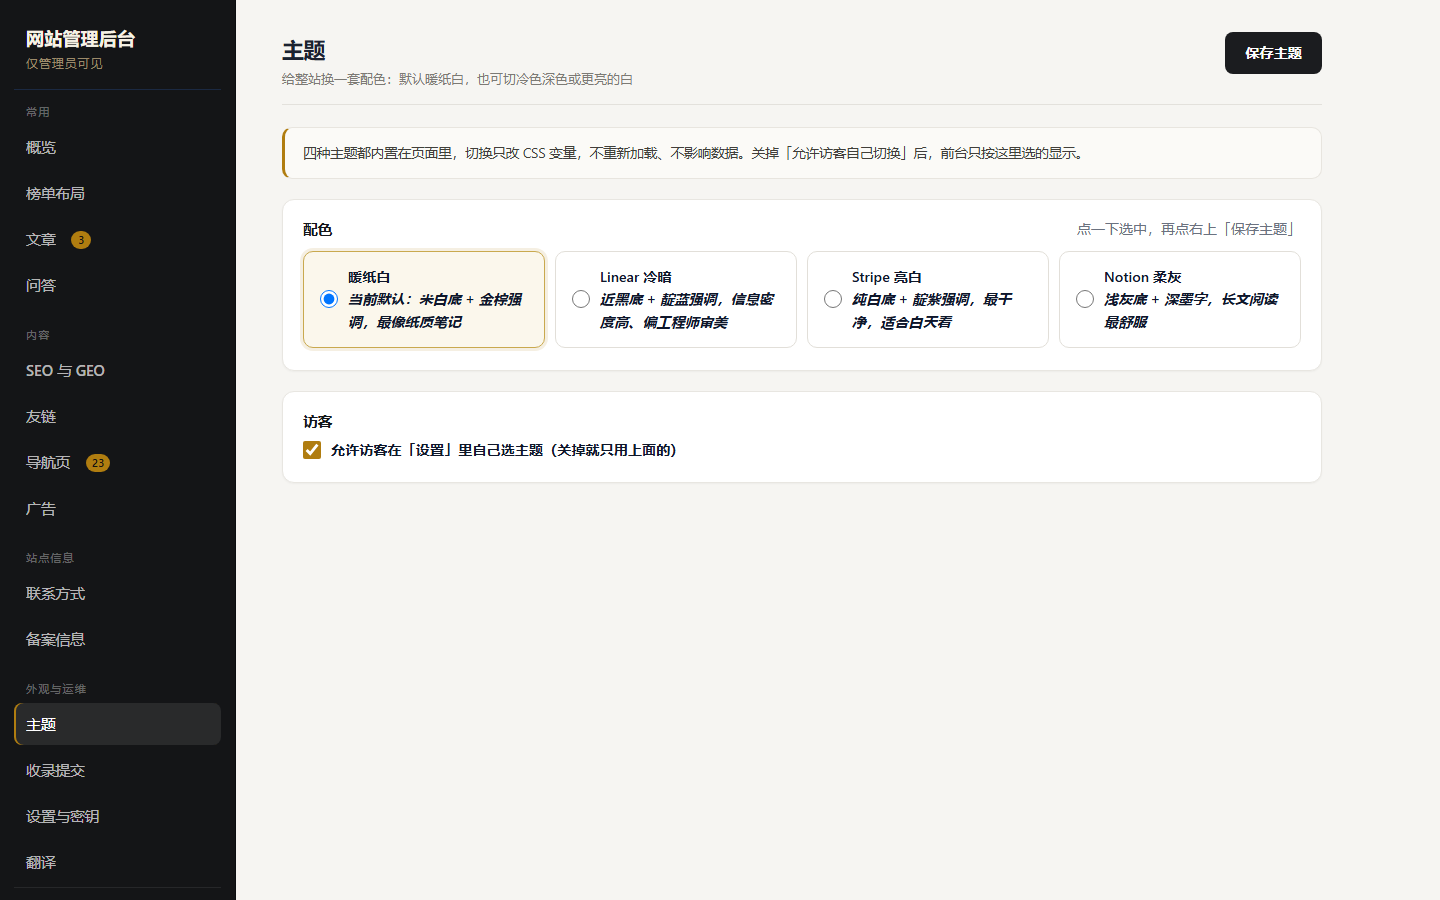
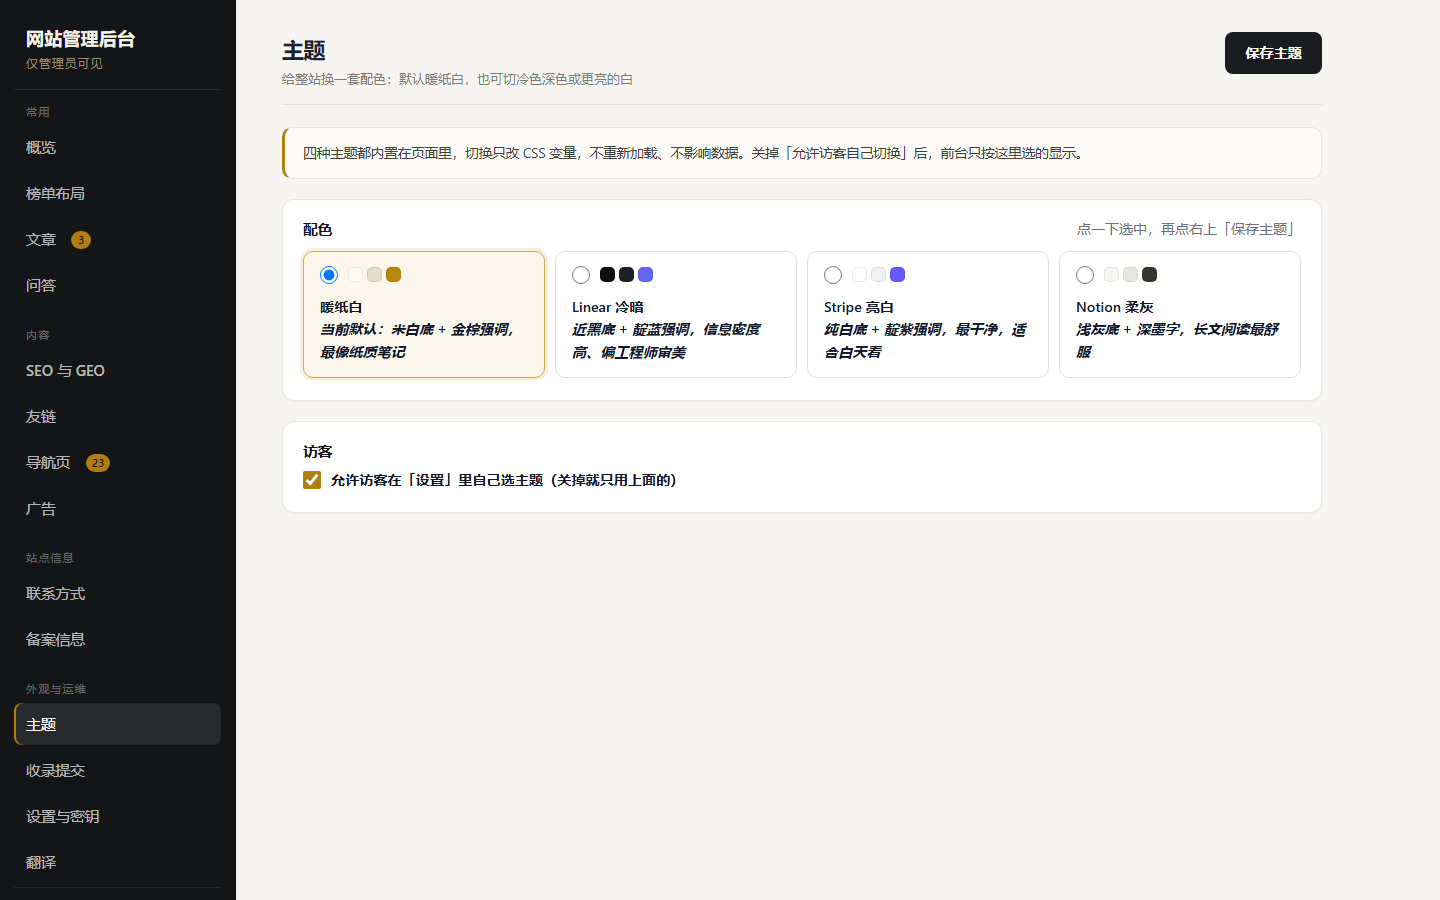
feat: 主题卡片加配色示意，单选卡布局放宽；v85

diff --git a/worker.js b/worker.js
@@ -1431,7 +1431,7 @@ async function injectFaqLd(env, html) {
 
 // 静态资源版本：HTML 里的 /js/*.js 都会被加上 ?v=<这里>，于是能给浏览器一年 immutable；
 // 改了前端就把它 +1（不然用户浏览器会抱着一周的旧 bundle，界面上去点了没反应）
-const ASSET_V = 'v84';
+const ASSET_V = 'v85';
 
 function emptyNav() {
   return { updatedAt: '', groups: [] };
@@ -3119,12 +3119,14 @@ th{color:var(--muted);font-weight:600;font-size:13px}
     #navAdmin td input{font-size:13px;padding:7px 9px}
     #navAdmin table{margin-top:6px}
 /* ---- 单选卡片（布局设置） ---- */
-.choice-grid{display:grid;grid-template-columns:repeat(auto-fit,minmax(158px,1fr));gap:10px;margin:10px 0 4px}
-.choice{display:flex;align-items:center;gap:10px;border:1px solid var(--line);border-radius:12px;padding:12px 14px;margin:0;cursor:pointer;background:#fff;font-weight:600;color:var(--text)}
+.choice-grid{display:grid;grid-template-columns:repeat(auto-fit,minmax(224px,1fr));gap:10px;margin:10px 0 4px}
+.choice{display:flex;flex-wrap:wrap;align-items:center;gap:10px;border:1px solid var(--line);border-radius:12px;padding:12px 14px;margin:0;cursor:pointer;background:#fff;font-weight:600;color:var(--text)}
 .choice:hover{border-color:#94a3b8}
 .choice input{width:18px;height:18px;margin:0;flex:none}
 .choice:has(input:checked){border-color:var(--brand);background:#eff6ff;box-shadow:0 0 0 1px var(--brand) inset}
-.choice-t{display:flex;flex-direction:column;font-size:14px}
+.choice .sw{display:inline-flex;gap:4px;margin-right:10px;vertical-align:middle;flex:none}
+.choice .sw i{width:15px;height:15px;border-radius:5px;display:block;border:1px solid rgba(0,0,0,.08)}
+.choice-t{display:flex;flex-direction:column;font-size:14px;flex:1 1 100%;margin-top:2px}
 .choice-t b{font-weight:400;font-size:12px;color:var(--muted);margin-top:2px}
 /* ---- 状态清单 / 键值 ---- */
 .status-list{display:grid;gap:8px;margin-top:8px}
@@ -3911,10 +3913,10 @@ tr:hover td{background:#fcfbf8}
       <div class="card">
         <div class="card-head"><b>配色</b><span class="msg">点一下选中，再点右上「保存主题」</span></div>
         <div class="choice-grid">
-          <label class="choice"><input type="radio" name="theme-name" value="paper" checked><span class="choice-t">暖纸白<em>当前默认：米白底 + 金棕强调，最像纸质笔记</em></span></label>
-          <label class="choice"><input type="radio" name="theme-name" value="ink"><span class="choice-t">Linear 冷暗<em>近黑底 + 靛蓝强调，信息密度高、偏工程师审美</em></span></label>
-          <label class="choice"><input type="radio" name="theme-name" value="stripe"><span class="choice-t">Stripe 亮白<em>纯白底 + 靛紫强调，最干净，适合白天看</em></span></label>
-          <label class="choice"><input type="radio" name="theme-name" value="notion"><span class="choice-t">Notion 柔灰<em>浅灰底 + 深墨字，长文阅读最舒服</em></span></label>
+          <label class="choice"><input type="radio" name="theme-name" value="paper" checked><span class="sw"><i style="background:#fffbf3"></i><i style="background:#e6dcc4"></i><i style="background:#b8860b"></i></span><span class="choice-t">暖纸白<em>当前默认：米白底 + 金棕强调，最像纸质笔记</em></span></label>
+          <label class="choice"><input type="radio" name="theme-name" value="ink"><span class="sw"><i style="background:#0b0d11"></i><i style="background:#1b1f27"></i><i style="background:#6366f1"></i></span><span class="choice-t">Linear 冷暗<em>近黑底 + 靛蓝强调，信息密度高、偏工程师审美</em></span></label>
+          <label class="choice"><input type="radio" name="theme-name" value="stripe"><span class="sw"><i style="background:#ffffff"></i><i style="background:#f1f2f6"></i><i style="background:#635bff"></i></span><span class="choice-t">Stripe 亮白<em>纯白底 + 靛紫强调，最干净，适合白天看</em></span></label>
+          <label class="choice"><input type="radio" name="theme-name" value="notion"><span class="sw"><i style="background:#f7f6f3"></i><i style="background:#e8e6e1"></i><i style="background:#37352f"></i></span><span class="choice-t">Notion 柔灰<em>浅灰底 + 深墨字，长文阅读最舒服</em></span></label>
         </div>
       </div>
       <div class="card">

diff --git a/sw.js b/sw.js
@@ -1,5 +1,5 @@
 /* Service Worker：缓存页面外壳（HTML/JS/图标），让离线也能打开；GitHub API 不缓存，由页面自己的 localStorage 管理 */
-const CACHE = 'ghrank-shell-v84';
+const CACHE = 'ghrank-shell-v85';
 const SHELL = ['./', 'index.html', 'js/bundle.js', 'js/md.js', 'manifest.json', 'icon.svg'];
 // 只预缓存 meta（约 2KB）。榜单数据按 range 分文件、由页面按需加载，不再在安装时白下几�?KB
 const DATA = 'data/repos-meta.js';

diff --git a/docs/优化建议.md b/docs/优化建议.md
@@ -865,3 +865,23 @@ node scripts/check-worker.mjs      # 本地模拟 Workers 运行时，30+ 项断
 ### 坑
 - `ADMIN_PAGE` 是模板字面量：**正则里不能写 `\/`**（会被吃成 `//` 变注释、整段脚本 SyntaxError）。去掉协议与结尾斜杠改用 `indexOf/slice` + `while (url.slice(-1) === '/')`，避免任何反斜杠。
 - 版本号不要手改成默认值：新增 `scripts/bump-version.mjs`，必须显式传 `v84`，否则直接报错退出（之前 `tmp-bump.mjs` 默认值把版本写回旧号，多花了一轮）。
+
+## 55. 第 30 轮：主题卡片加配色示意（swatch）
+
+### 做了什么
+- 后台「主题」四张单选卡各加一行三色示意图（背景 / 卡片 / 强调色），一眼能看出这套主题长什么样，不用挨个点了才知道。
+  * 暖纸白 `#fffbf3 / #e6dcc4 / #b8860b`
+  * Linear 冷暗 `#0b0d11 / #1b1f27 / #6366f1`
+  * Stripe 亮白 `#ffffff / #f1f2f6 / #635bff`
+  * Notion 柔灰 `#f7f6f3 / #e8e6e1 / #37352f`
+- 单选卡布局也跟着调：`.choice` 改 `flex-wrap:wrap`、`.choice-t` 占满一行、`.choice-grid` 最小宽 158px → **224px**。原来文字被挤成两三个字一行（“近黑底 + 靛蓝强调”竖着折），现在色块 + 名称 + 说明三层清晰。
+- 这个改法同时改善了「榜单布局」页（同一套 `.choice`），四档并列更整齐。
+
+### 验证
+- `node --check worker.js`、`check-admin-script`、`check-admin-refs`、`check-admin-panes`（12 面板 + 390px 矩阵）、`check-pane-wiring`、`check-worker`（74 回源 / 100 API）全绿。
+- 截图：`docs/shots/admin-theme.png`（1440×900，四张卡各带三色块 + 说明）、`docs/shots/admin-layout.png`（1440×1157，现在四档横排、不再挤成两字一行）。
+- `ASSET_V`、`CACHE` 升到 v85。
+
+### 坑
+- worker.js 的 CSS 是**顶格**写的（没有缩进），锚点带两个空格会命中 0 次；`.choice-t{...}` 这类短规则在多套主题里重复出现，必须挑只出现一次的写法。
+- 补丁脚本对每个 op 断言「恰好命中 1 次」，命中 0 就整体不写文件——这个习惯救过好几次，别图快跳过。
